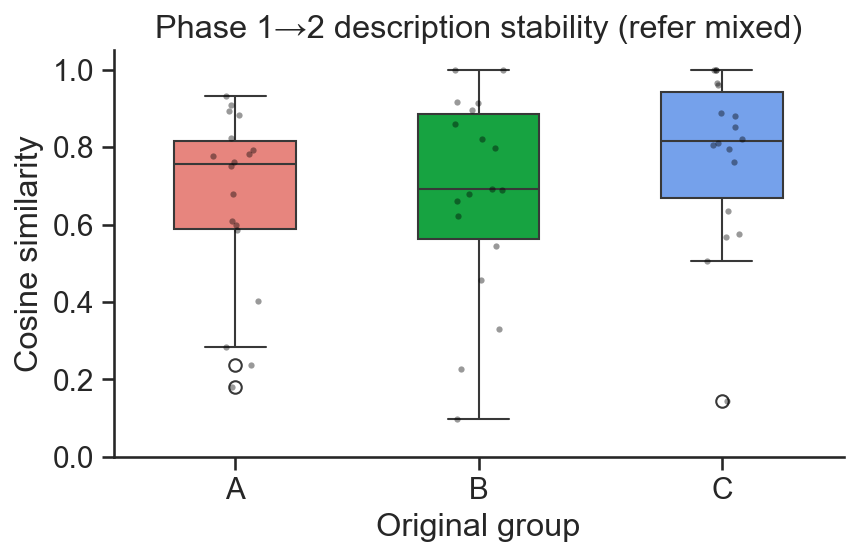
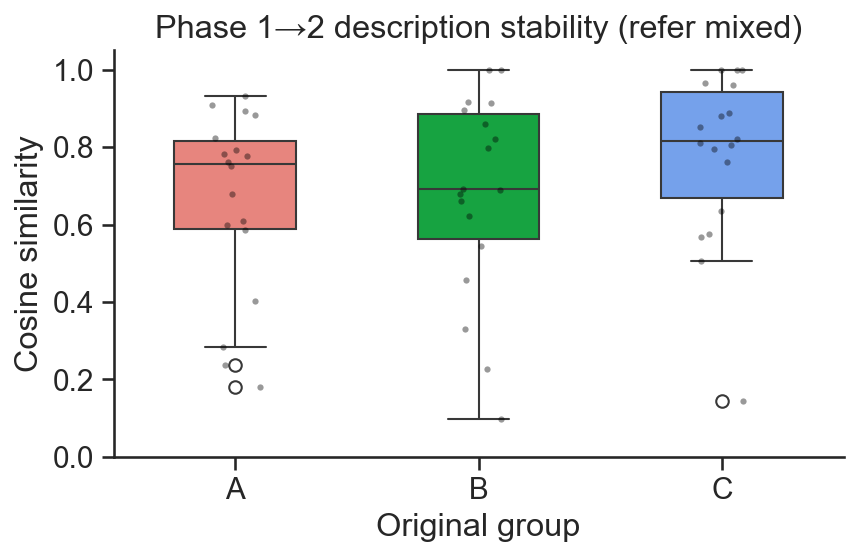
twopanel plots

diff --git a/analysis/pilot_analysis.py b/analysis/pilot_analysis.py
@@ -385,6 +385,124 @@ def plot_phase_change_comparison(data, output_dir, conditions):
     print(f"  Saved phase_change_comparison.png")
 
 
+# ── Faceted by-condition plots (shared y-axis) ────────────────
+
+def _facet_legend_right(g, title="Original group"):
+    """Place a compact legend to the right of a FacetGrid without a huge gap."""
+    # Remove any auto-generated legend
+    if g._legend is not None:
+        g._legend.remove()
+    # Place legend just outside the last axis
+    last_ax = g.axes.flat[-1]
+    last_ax.legend(title=title, bbox_to_anchor=(1.04, 0.5), loc="center left",
+                   fontsize=11, title_fontsize=11, frameon=False)
+
+
+def plot_faceted_metrics(data, output_dir, conditions):
+    """FacetGrid plots: columns = conditions, hue = original group, shared y-axis."""
+    utterances = data["utterances"]
+    trials = data["trials"]
+    adjacent = data["adjacent"]
+
+    condition_order = sorted(conditions)
+    condition_labels = {c: format_condition(c) for c in condition_order}
+
+    # --- Description length ---
+    utt = continuous_block(utterances[utterances["condition"].isin(conditions)])
+    utt["condition_label"] = utt["condition"].map(condition_labels)
+    label_order = [condition_labels[c] for c in condition_order]
+
+    g = sns.FacetGrid(
+        utt, col="condition_label", col_order=label_order,
+        hue="originalGroup", hue_order=GROUP_ORDER, palette=GROUP_COLORS,
+        sharey=True, height=4, aspect=1.0,
+    )
+    g.map_dataframe(sns.lineplot, x="block", y="uttLength", marker="o", markersize=5, errorbar=None)
+    for ax in g.axes.flat:
+        add_phase_boundary(ax)
+    g.set_axis_labels("Block", "Word count")
+    g.set_titles("{col_name}")
+    _facet_legend_right(g)
+    g.figure.suptitle("Description length", y=1.02)
+    g.figure.savefig(output_dir / "facet_description_length.png", dpi=150, bbox_inches="tight")
+    plt.close(g.figure)
+    print(f"  Saved facet_description_length.png")
+
+    # --- Listener accuracy ---
+    listener = continuous_block(
+        trials[(trials["role"] == "listener") & trials["condition"].isin(conditions)]
+    ).copy()
+    listener["correct"] = listener["clickedCorrect"].astype(float)
+    listener["condition_label"] = listener["condition"].map(condition_labels)
+
+    g = sns.FacetGrid(
+        listener, col="condition_label", col_order=label_order,
+        hue="originalGroup", hue_order=GROUP_ORDER, palette=GROUP_COLORS,
+        sharey=True, height=4, aspect=1.0,
+    )
+    g.map_dataframe(sns.lineplot, x="block", y="correct", marker="o", markersize=5, errorbar=None)
+    for ax in g.axes.flat:
+        add_phase_boundary(ax)
+        add_chance_line(ax, 1 / 6, "Chance (1/6)")
+        ax.set_ylim(0, 1.05)
+    g.set_axis_labels("Block", "Accuracy")
+    g.set_titles("{col_name}")
+    _facet_legend_right(g)
+    g.figure.suptitle("Listener accuracy", y=1.02)
+    g.figure.savefig(output_dir / "facet_listener_accuracy.png", dpi=150, bbox_inches="tight")
+    plt.close(g.figure)
+    print(f"  Saved facet_listener_accuracy.png")
+
+    # --- Convention stability ---
+    adj = continuous_block(
+        adjacent[adjacent["simAdjacent"].notna() & adjacent["condition"].isin(conditions)]
+    ).copy()
+    adj["condition_label"] = adj["condition"].map(condition_labels)
+
+    g = sns.FacetGrid(
+        adj, col="condition_label", col_order=label_order,
+        hue="originalGroup", hue_order=GROUP_ORDER, palette=GROUP_COLORS,
+        sharey=True, height=4, aspect=1.0,
+    )
+    g.map_dataframe(sns.lineplot, x="block", y="simAdjacent", marker="o", markersize=5, errorbar=None)
+    for ax in g.axes.flat:
+        add_phase_boundary(ax)
+        ax.set_ylim(0, 1.05)
+    g.set_axis_labels("Block", "Cosine similarity")
+    g.set_titles("{col_name}")
+    _facet_legend_right(g)
+    g.figure.suptitle("Convention stability", y=1.02)
+    g.figure.savefig(output_dir / "facet_convention_stability.png", dpi=150, bbox_inches="tight")
+    plt.close(g.figure)
+    print(f"  Saved facet_convention_stability.png")
+
+    # --- Phase change similarity ---
+    phase_change = data["phase_change"]
+    if not phase_change.empty:
+        pc = phase_change[phase_change["condition"].isin(conditions)].copy()
+        pc["condition_label"] = pc["condition"].map(condition_labels)
+        pc_label_order = [condition_labels[c] for c in condition_order if c in pc["condition"].unique()]
+
+        if not pc.empty:
+            g = sns.FacetGrid(
+                pc, col="condition_label", col_order=pc_label_order,
+                sharey=True, height=4, aspect=1.0,
+            )
+            g.map_dataframe(sns.boxplot, x="originalGroup", y="simPhase1Phase2",
+                            order=GROUP_ORDER, palette=GROUP_COLORS, width=0.5)
+            g.map_dataframe(sns.stripplot, x="originalGroup", y="simPhase1Phase2",
+                            order=GROUP_ORDER, color="black", alpha=0.4, size=3, jitter=True)
+            for ax in g.axes.flat:
+                ax.set_ylim(0, 1.05)
+                sns.despine(ax=ax)
+            g.set_axis_labels("Original group", "Cosine similarity")
+            g.set_titles("{col_name}")
+            g.figure.suptitle("Phase 1 → 2 description stability", y=1.02)
+            g.figure.savefig(output_dir / "facet_phase_change.png", dpi=150, bbox_inches="tight")
+            plt.close(g.figure)
+            print(f"  Saved facet_phase_change.png")
+
+
 # ── Composite overview figure ─────────────────────────────────
 
 def plot_composite(data, output_dir, conditions):
@@ -683,6 +801,11 @@ def main():
         print("\nCross-condition comparison plots:")
         plot_cross_condition(all_data, output_dir, conditions_list)
         plot_phase_change_comparison(all_data, output_dir, conditions_list)
+
+    # Faceted by-condition plots (shared y-axis)
+    if len(conditions_list) >= 2:
+        print("\nFaceted by-condition plots:")
+        plot_faceted_metrics(all_data, output_dir, conditions_list)
 
     # Composite overview
     print("\nComposite overview:")
